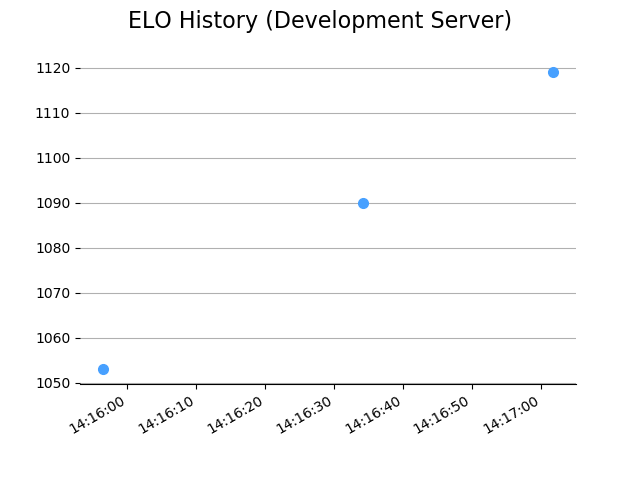
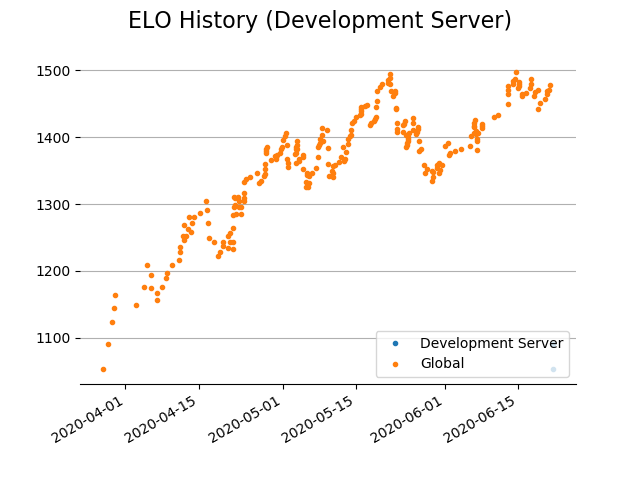
Added global ELO to ELO history chart on player card

diff --git a/modules/games.py b/modules/games.py
@@ -535,33 +535,48 @@ class games(commands.Cog):
             if misc_stats:
                 embed.add_field(name='__Miscellaneous Global Stats__', value='\n'.join(misc_stats), inline=False)
 
-            elo_history_query = (Lineup
+            local_elo_history_query = (Lineup
                 .select(Game.completed_ts, Lineup.elo_after_game)
                 .join(Game)
                 .where((Lineup.player_id == player.id) & (Lineup.elo_after_game.is_null(False))))
 
-            elo_history_dates = [l.completed_ts for l in elo_history_query.objects()]
+            local_elo_history_dates = [l.completed_ts for l in local_elo_history_query.objects()]
 
-            if elo_history_dates:
-                elo_history_elos = [l.elo_after_game for l in elo_history_query.objects()]
+            if local_elo_history_dates:
+                local_elo_history_elos = [l.elo_after_game for l in local_elo_history_query.objects()]
+
+                global_elo_history_query = (Player
+                    .select(Game.completed_ts, Lineup.elo_after_game_global)
+                    .join(Lineup)
+                    .join(Game)
+                    .where((Player.discord_member_id == player.discord_member_id) & (Lineup.elo_after_game_global.is_null(False)))
+                    .order_by(Game.completed_ts))
+
+                global_elo_history_dates = [l.completed_ts for l in global_elo_history_query.objects()]
+                global_elo_history_elos = [l.elo_after_game_global for l in global_elo_history_query.objects()]
 
                 try:
                     server_name = settings.guild_setting(guild_id=player.guild_id, setting_name='display_name')
                 except exceptions.CheckFailedError:
                     server_name = settings.guild_setting(guild_id=None, setting_name='display_name')
                 
+                plt.style.use('default')
+
                 plt.switch_backend('Agg')
 
                 fig, ax = plt.subplots()
                 fig.suptitle('ELO History (' + server_name + ')', fontsize=16)
                 fig.autofmt_xdate()
 
-                plt.plot(elo_history_dates, elo_history_elos, 'o', color='#47a0ff', markersize=7)
+                plt.plot(local_elo_history_dates, local_elo_history_elos, 'o', markersize=3, label = server_name)
+                plt.plot(global_elo_history_dates, global_elo_history_elos, 'o', markersize=3, label = 'Global')
 
                 ax.yaxis.grid()
                 ax.spines['top'].set_visible(False)
                 ax.spines['right'].set_visible(False)
                 ax.spines['left'].set_visible(False)
+
+                plt.legend(loc="lower right")
 
                 plt.savefig('graph.png', transparent=False)
                 plt.close(fig)
